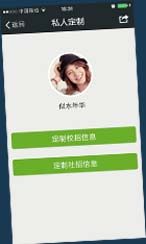
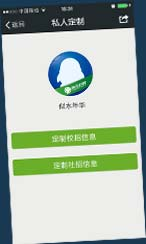
[!]

Changed region(s): [[0.3288, 0.2008, 0.6575, 0.4016]]

diff --git a/demo/join/css/style.css b/demo/join/css/style.css
@@ -91,6 +91,10 @@ body{ background:#193953; line-height:1.5;}
 .phone_wrap .phone_show{display:block; height:164px; width:82px; background:url(../images/phone_bg.png) no-repeat 0 0; background-size:contain; position:absolute; left:0px; top:0px; z-index:2;}
 .phone_wrap .phone_photo{display:block; height:122px; width:73px; background:url(../data/photo_1.jpg) no-repeat 0 0; background-size:contain; position:absolute; left:5px; top:21px; z-index:1;}
 .phone_wrap .phone_photo_2{background:url(../data/photo_2.jpg) no-repeat 0 0; background-size:contain;}
+.phone_wrap .phone_photo_3{background:url(../data/photo_3.jpg) no-repeat 0 0; background-size:contain;}
+.phone_wrap .phone_photo_4{background:url(../data/photo_4.jpg) no-repeat 0 0; background-size:contain;}
+.phone_wrap .phone_photo_5{background:url(../data/photo_5.jpg) no-repeat 0 0; background-size:contain;}
+.phone_wrap .phone_photo_6{background:url(../data/photo_6.jpg) no-repeat 0 0; background-size:contain;}
 
 .plane_wrap{ display:block; height:70px; width:115px; position:absolute; left:-10px; top:15px; z-index:1;}
 .plane_wrap .line_1{ display:block; height:21px; width:15px; position:absolute; right:100px; top:40px; overflow:hidden;}
@@ -666,17 +670,31 @@ body{ background:#193953; line-height:1.5;}
 .con_wrap_3_show .info_wrap .info_3 .txt_line_3{-webkit-animation:a_txt_line_6 0.2s 3.3s linear both;}
 
 .address_wrap{ display:block; height:121px; width:75px; background: url(../images/address_bg.png) no-repeat 0 0; background-size:contain; position:absolute; left:50%; margin-left:-9px; top:164px; z-index:2;}
-.address_wrap .show_area{ display:block; height:58px; width:58px; border-radius:58px; position:absolute; left:8px; top:10px; overflow:hidden;}
-.address_wrap .show_area .address{ display:block; height:59px; width:59px; position:absolute; left:0px; top:0px; opacity:0;}
-.address_wrap .show_area .address_1{ background:url(../images/address_1.png) no-repeat 0 0; background-size:contain;}
-.address_wrap .show_area .address_2{ background:url(../images/address_2.png) no-repeat 0 0; background-size:contain;}
-.address_wrap .show_area .address_3{ background:url(../images/address_3.png) no-repeat 0 0; background-size:contain;}
-.address_wrap .show_area .address_4{ background:url(../images/address_4.png) no-repeat 0 0; background-size:contain;}
-.address_wrap .show_area .address_5{ background:url(../images/address_5.png) no-repeat 0 0; background-size:contain;}
-.address_wrap .show_area .address_6{ background:url(../images/address_6.png) no-repeat 0 0; background-size:contain;}
-.address_wrap .show_area .address_7{ background:url(../images/address_7.png) no-repeat 0 0; background-size:contain;}
+.address_wrap .show_area{ display:block; height:58px; width:58px; border-radius:58px; position:absolute; left:8px; top:10px; overflow:hidden; z-index:2;}
+.address_wrap .show_area .address{ display:block; height:59px; width:59px; position:absolute; left:0px; top:0px; opacity:0; z-index:1;}
+.address_wrap .show_area .address_1{ background:#f9c741 url(../images/address_1.png) no-repeat 0 0; background-size:contain;}
+.address_wrap .show_area .address_2{ background:#f9c741 url(../images/address_2.png) no-repeat 0 0; background-size:contain;}
+.address_wrap .show_area .address_3{ background:#f9c741 url(../images/address_3.png) no-repeat 0 0; background-size:contain;}
+.address_wrap .show_area .address_4{ background:#f9c741 url(../images/address_4.png) no-repeat 0 0; background-size:contain;}
+.address_wrap .show_area .address_5{ background:#f9c741 url(../images/address_5.png) no-repeat 0 0; background-size:contain;}
+.address_wrap .show_area .address_6{ background:#f9c741 url(../images/address_6.png) no-repeat 0 0; background-size:contain;}
+.address_wrap .show_area .address_7{ background:#f9c741 url(../images/address_7.png) no-repeat 0 0; background-size:contain;}
 
-.address_wrap .show_area .current{ opacity:1;}
+.con_wrap_4_show .address_wrap .show_area .address_1{ -webkit-animation:a_address 21s linear infinite;}
+.con_wrap_4_show .address_wrap .show_area .address_2{ -webkit-animation:a_address 21s 3s linear infinite;}
+.con_wrap_4_show .address_wrap .show_area .address_3{ -webkit-animation:a_address 21s 6s linear infinite;}
+.con_wrap_4_show .address_wrap .show_area .address_4{ -webkit-animation:a_address 21s 9s linear infinite;}
+.con_wrap_4_show .address_wrap .show_area .address_5{ -webkit-animation:a_address 21s 12s linear infinite;}
+.con_wrap_4_show .address_wrap .show_area .address_6{ -webkit-animation:a_address 21s 15s linear infinite;}
+.con_wrap_4_show .address_wrap .show_area .address_7{ -webkit-animation:a_address 21s 18s linear infinite;}
+
+@-webkit-keyframes a_address{
+	0%{ opacity:0; z-index:2;}
+	2.7%{ opacity:1; z-index:2;}
+	14.3%{ opacity:1; z-index:2;}
+	17%{ opacity:0; z-index:2;}
+	100%{ opacity:0;}
+}
 
 .address_line{ display:block;  height:121px; width:75px; position:absolute; left:0px; top:0px;}
 .address_line .dot{ display:block; height:10px; width:10px; background:#f9c741; border-radius:10px; position:absolute; opacity:0;}
@@ -692,13 +710,17 @@ body{ background:#193953; line-height:1.5;}
 .icon_question{ display:block; height:23px; background: url(../images/icon_question.png) no-repeat 0 0; width:18px; position:absolute; left:93px; top:101px; background-size:contain;}
 .address_line .txt{ display:block; height:30px; width:50px; color:#f9c741; font-size:12px; font-family:'microsoft yahei'; position:absolute; left:57px; top:92px; line-height:1;}
 .address_line .location_img{ display:block; height:70px; width:70px; border:3px solid #f9c741; background:#f9c741; border-radius:70px; position:absolute; left:-86px; top:27px;}
+.address_line .location_img .img{ display:block; height:70px; width:70px; border-radius:70px; position:absolute; left:0px; top:0px;}
+.address_line .location_img .img_1{ background:#f9c741 url(../data/address_1.jpg) no-repeat 0 0; background-size:contain;}
 
-.cloud{ display:block; height:10px; width:20px; background: url(../images/bg_cloud.png) no-repeat 0 0; background-size:contain; position:absolute; left:70px; top:37px; opacity:1;}
+.cloud{ display:block; height:10px; width:20px; background: url(../images/bg_cloud.png) no-repeat 0 0; background-size:contain; position:absolute; left:70px; top:37px; opacity:1; z-index:2;}
 .cloud_2{ left:10px; top:105px;}
 
 .con_wrap_4_show .cloud_1{ -webkit-animation:a_cloud_1 20s linear infinite;}
 .con_wrap_4_show .cloud_2{-webkit-animation:a_cloud_2 20s linear infinite;}
 
+.con_wrap_4 .plane_wrap{ opacity:0; -webkit-transition:opacity 0.2s 2.9s linear; z-index:2;}
+.con_wrap_4_show .plane_wrap{ opacity:1;}
 .con_wrap_4_show .plane_wrap .plane{-webkit-animation:a_plane 1.8s 2.9s linear both;} 
 .con_wrap_4_show .plane_wrap .line_1{-webkit-animation:a_line_1 0.36s 2.9s linear both;}
 .con_wrap_4_show .plane_wrap .line_2{-webkit-animation:a_line_2 1.44s 3.26s linear both;}

diff --git a/demo/join/join.html b/demo/join/join.html
@@ -135,7 +135,7 @@
         
         <div class="phone_wrap">
             <div class="phone_show"></div>
-            <div class="phone_photo"></div>
+            <div class="phone_photo phone_photo_3"></div>
             <div class="pliers_area pliers_area_4">
                 <span class="line"><i></i></span>
                 <span class="pliers_hand">
@@ -186,7 +186,7 @@
         
         <div class="phone_wrap">
             <div class="phone_show"></div>
-            <div class="phone_photo"></div>
+            <div class="phone_photo phone_photo_4"></div>
             <div class="rock_base">
             	<div class="base_seat base_seat_1">
                 	<span class="fire"></span>
@@ -274,7 +274,7 @@
         
         <div class="phone_wrap">
             <div class="phone_show"></div>
-            <div class="phone_photo"></div>
+            <div class="phone_photo phone_photo_5"></div>
         </div>
         
         <div class="address_wrap">
@@ -354,7 +354,7 @@
             </div>
             <div class="phone_wrap">
                 <div class="phone_show"></div>
-                <div class="phone_photo"></div>
+                <div class="phone_photo phone_photo_6"></div>
             </div>
             <a class="logo_s" href="#">
             	<span class="logo_txt">新版小腾姐</span>

diff --git a/demo/join/js/js.js b/demo/join/js/js.js
@@ -232,7 +232,7 @@ $(document).ready(function(){
 	}
 	
 	bindClickEvent();
-
+	
 	/*
 	$(".link_next_1").click(function(){
 		if(screen_num==1){
